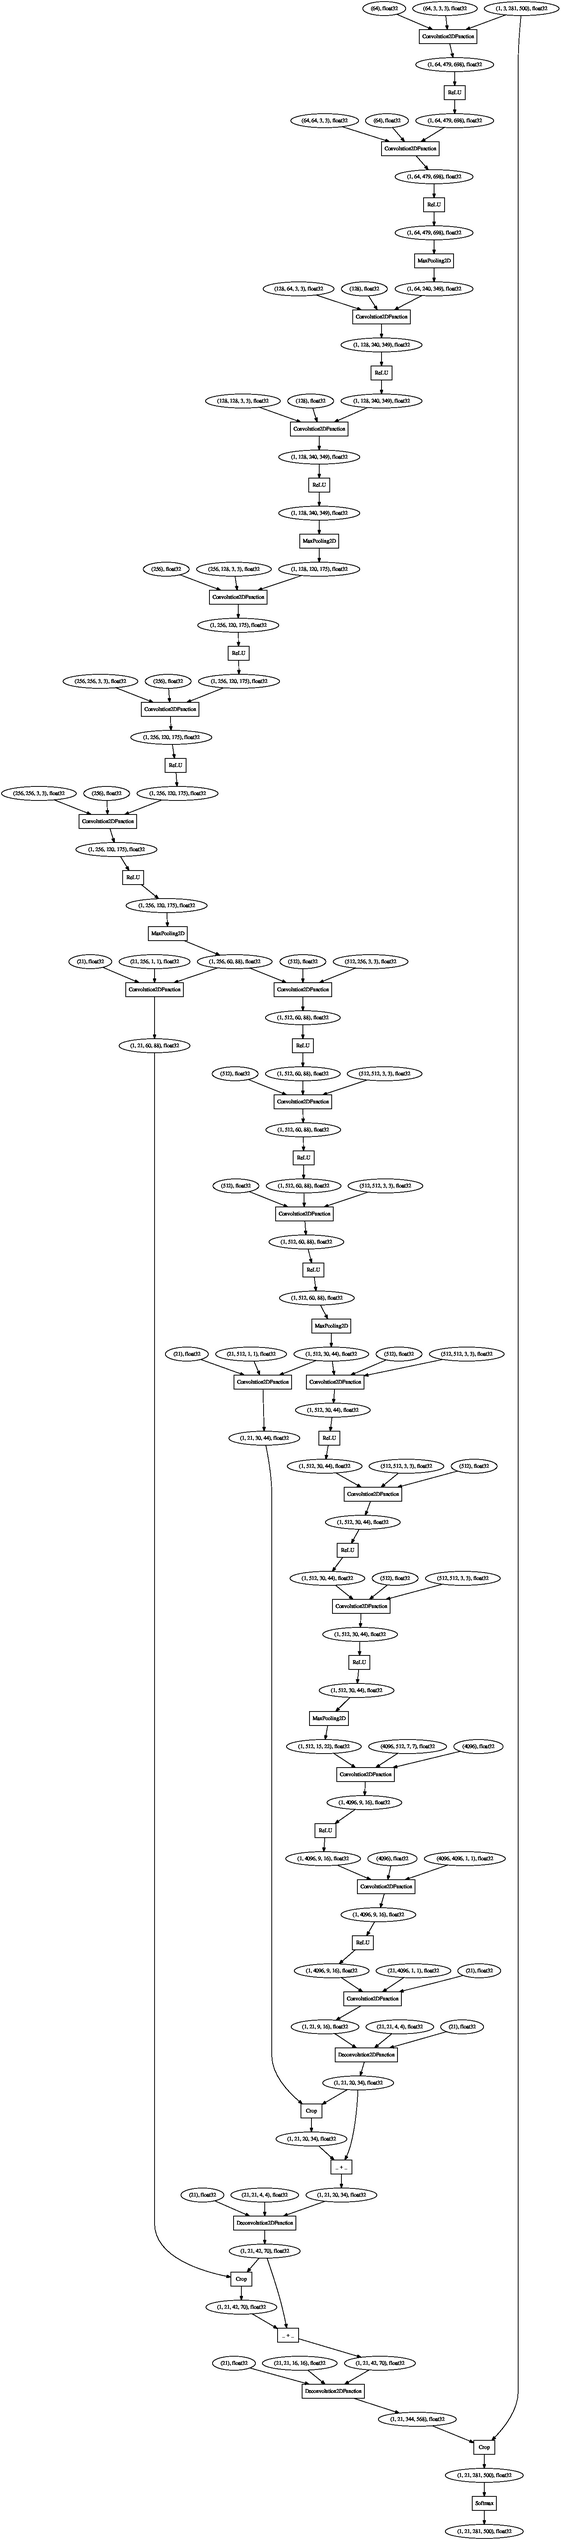
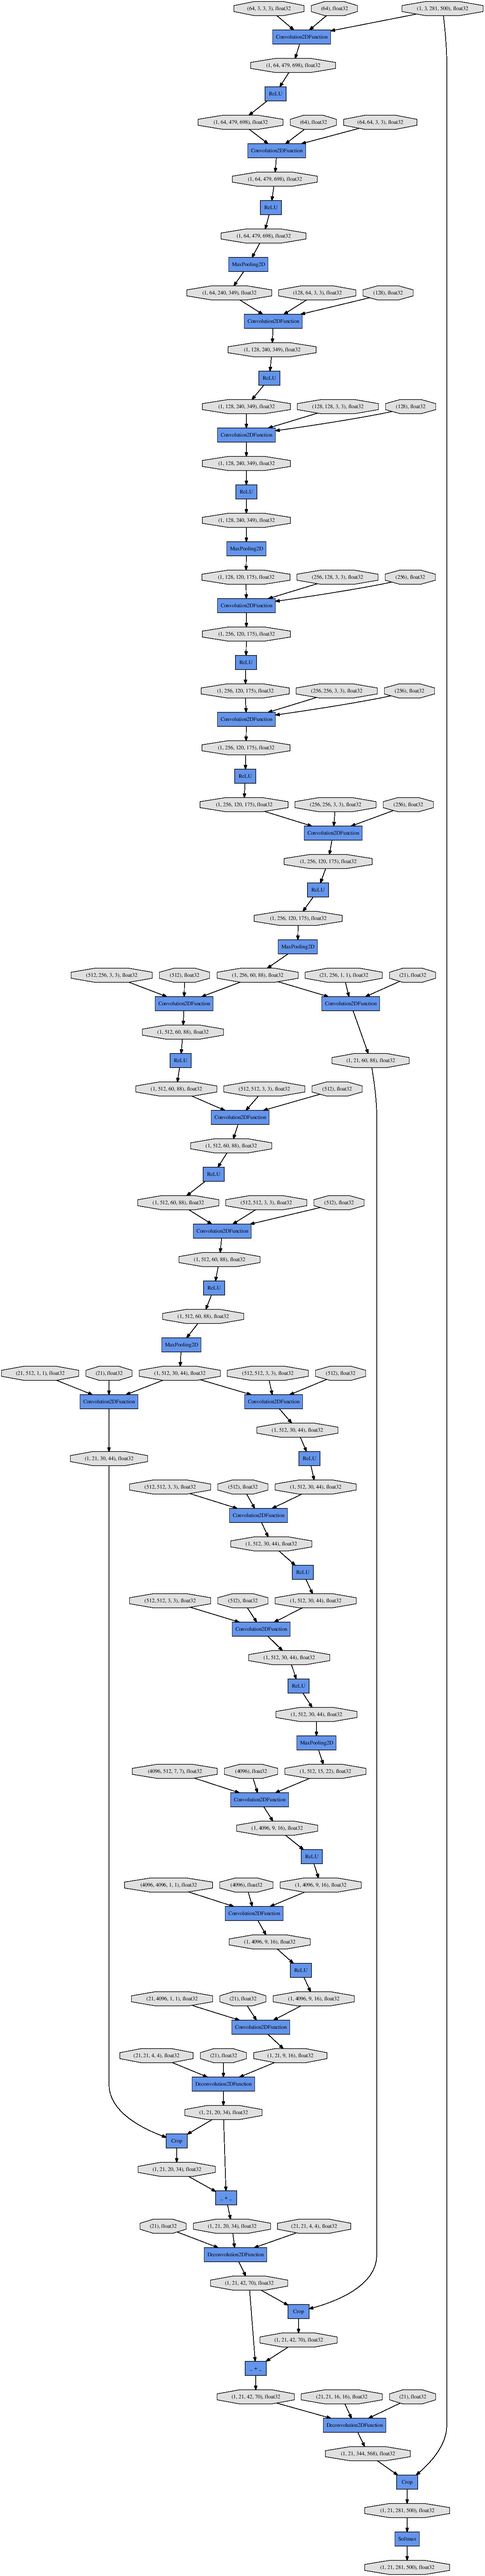
Colorize computation graph

diff --git a/scripts/fcn_forward.py b/scripts/fcn_forward.py
@@ -66,7 +66,13 @@ class Forwarding(object):
             from chainer.computational_graph import build_computational_graph
             dotfile = tempfile.mktemp()
             with open(dotfile, 'w') as f:
-                f.write(build_computational_graph([pred]).dump())
+                variable_style = {'shape': 'octagon', 'fillcolor': '#E0E0E0', 'style': 'filled'}
+                function_style = {'shape': 'record', 'fillcolor': '#6495ED', 'style': 'filled'}
+                f.write(build_computational_graph(
+                    [pred],
+                    variable_style=variable_style,
+                    function_style=function_style,
+                ).dump())
             cmd = 'dot -Tps {0} > {1}'.format(dotfile, psfile)
             subprocess.call(cmd, shell=True)
             print('- computational_graph: {0}'.format(psfile))
